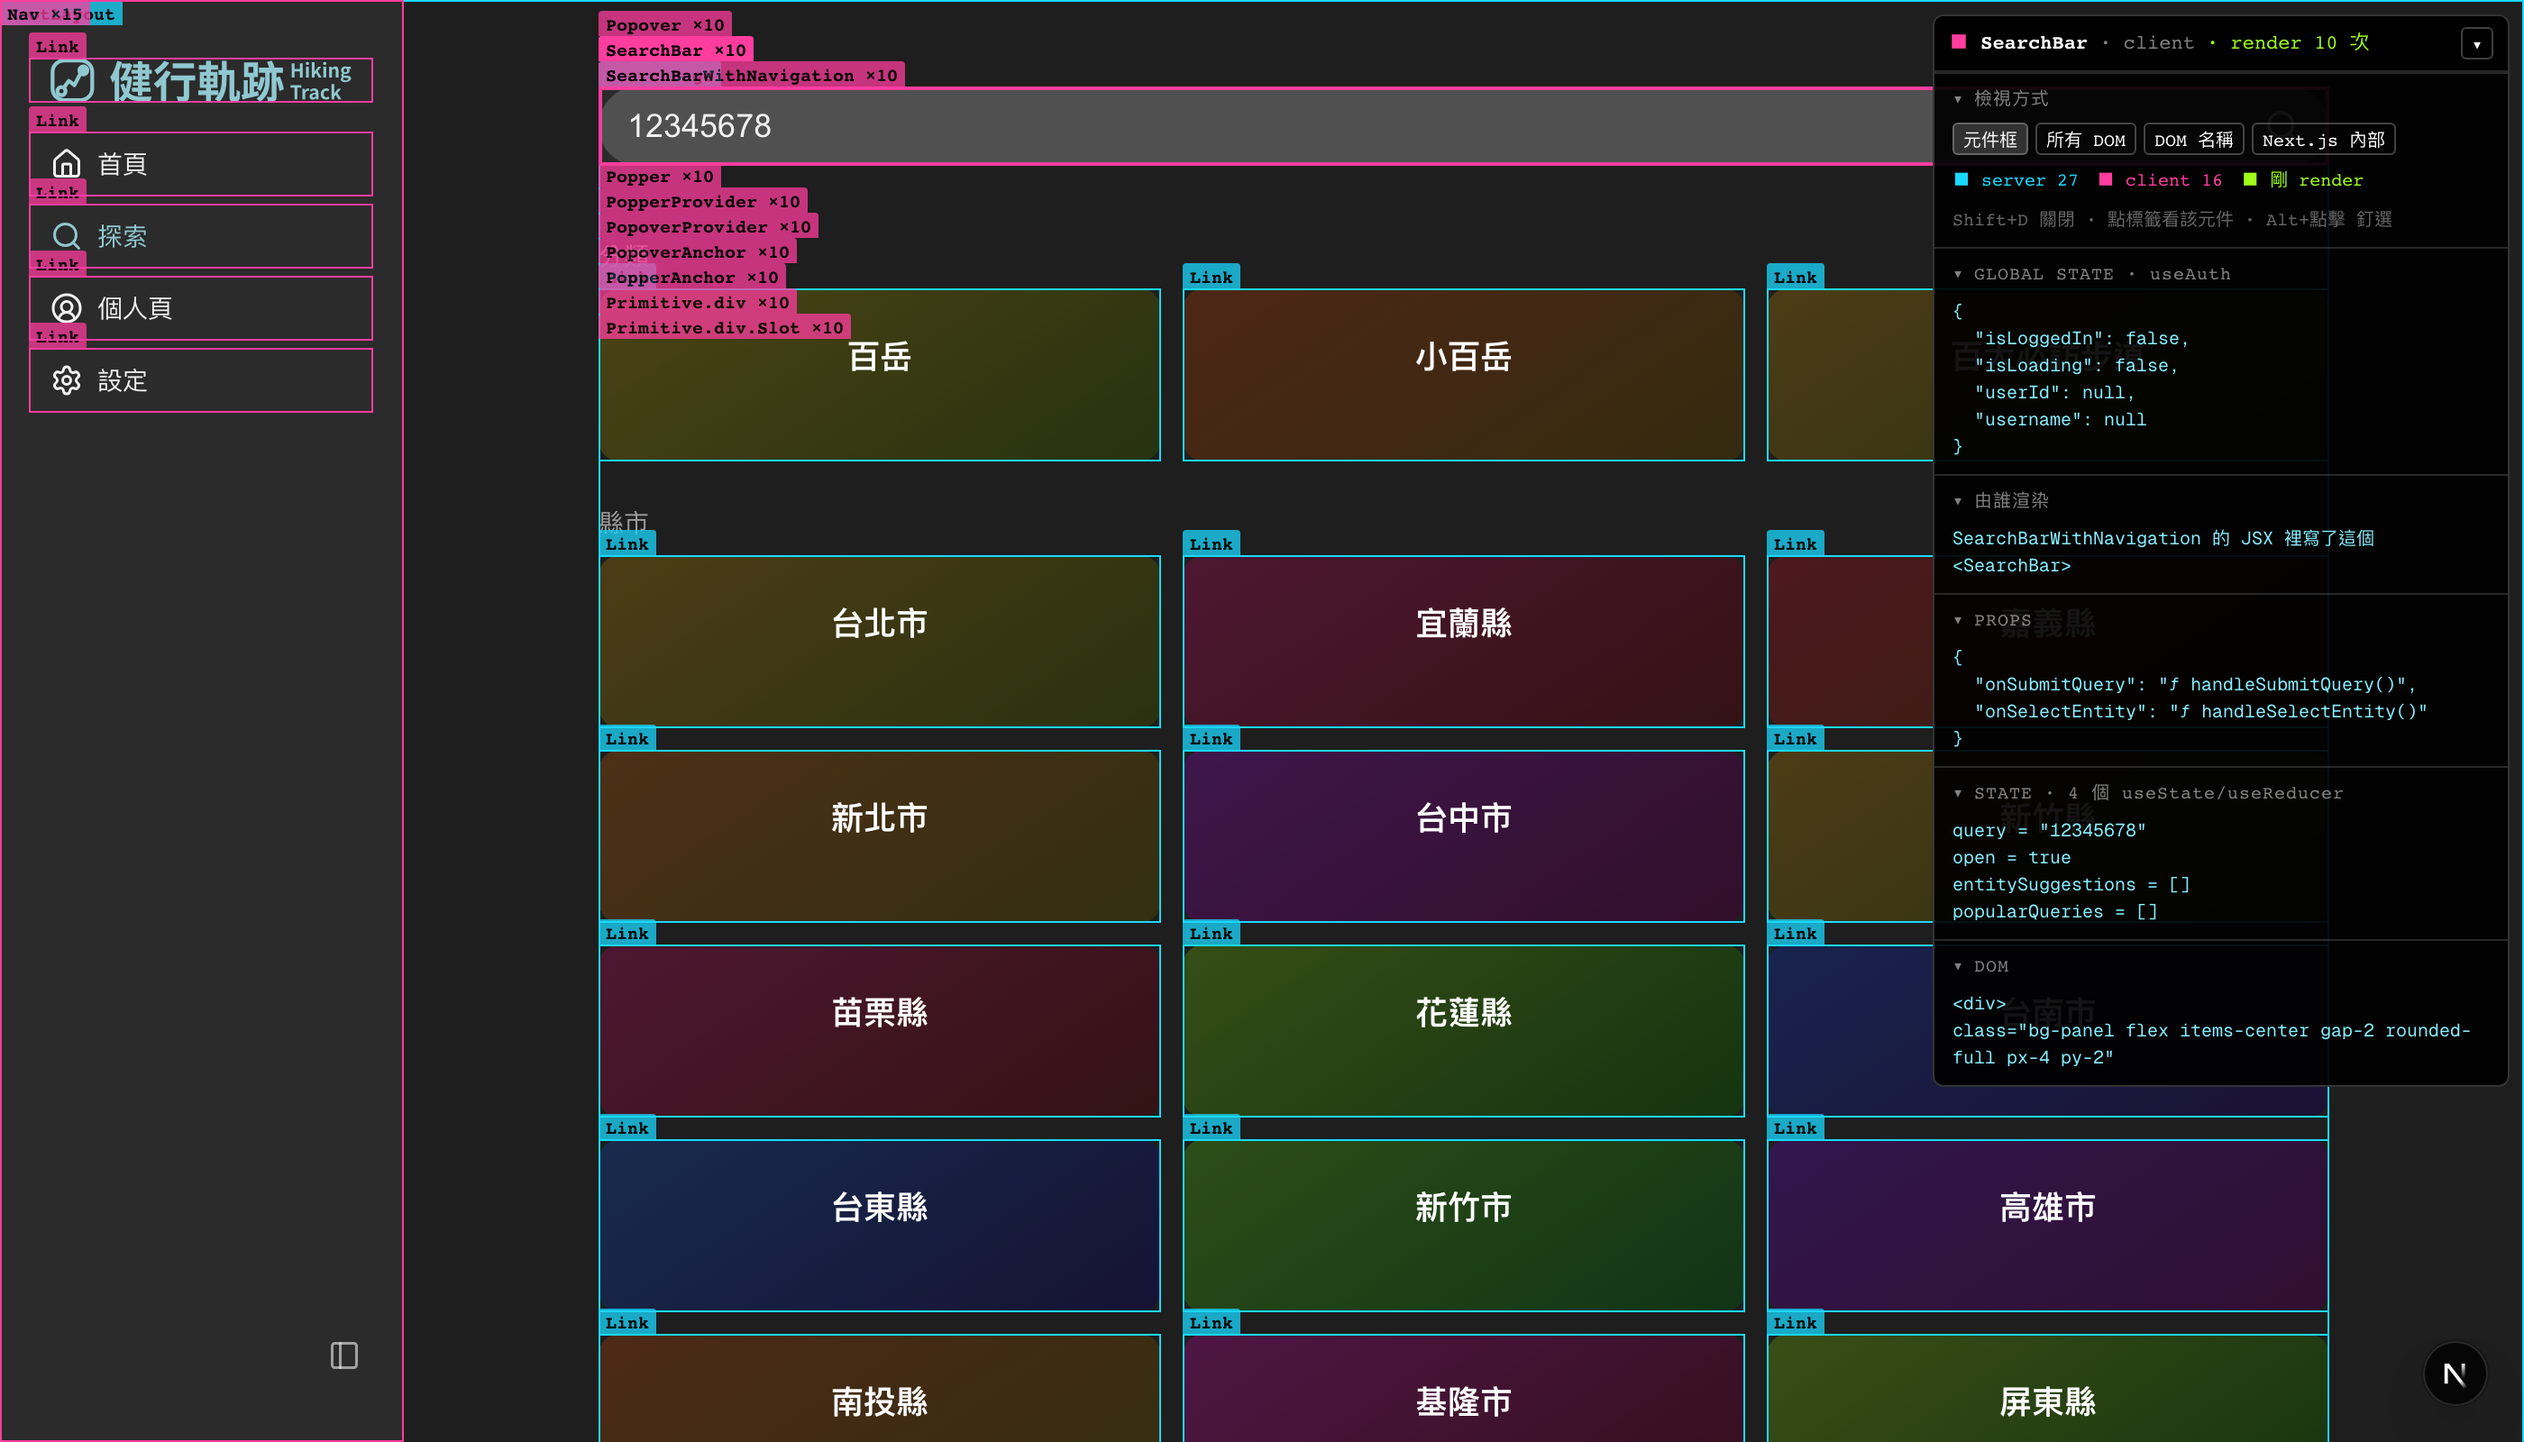
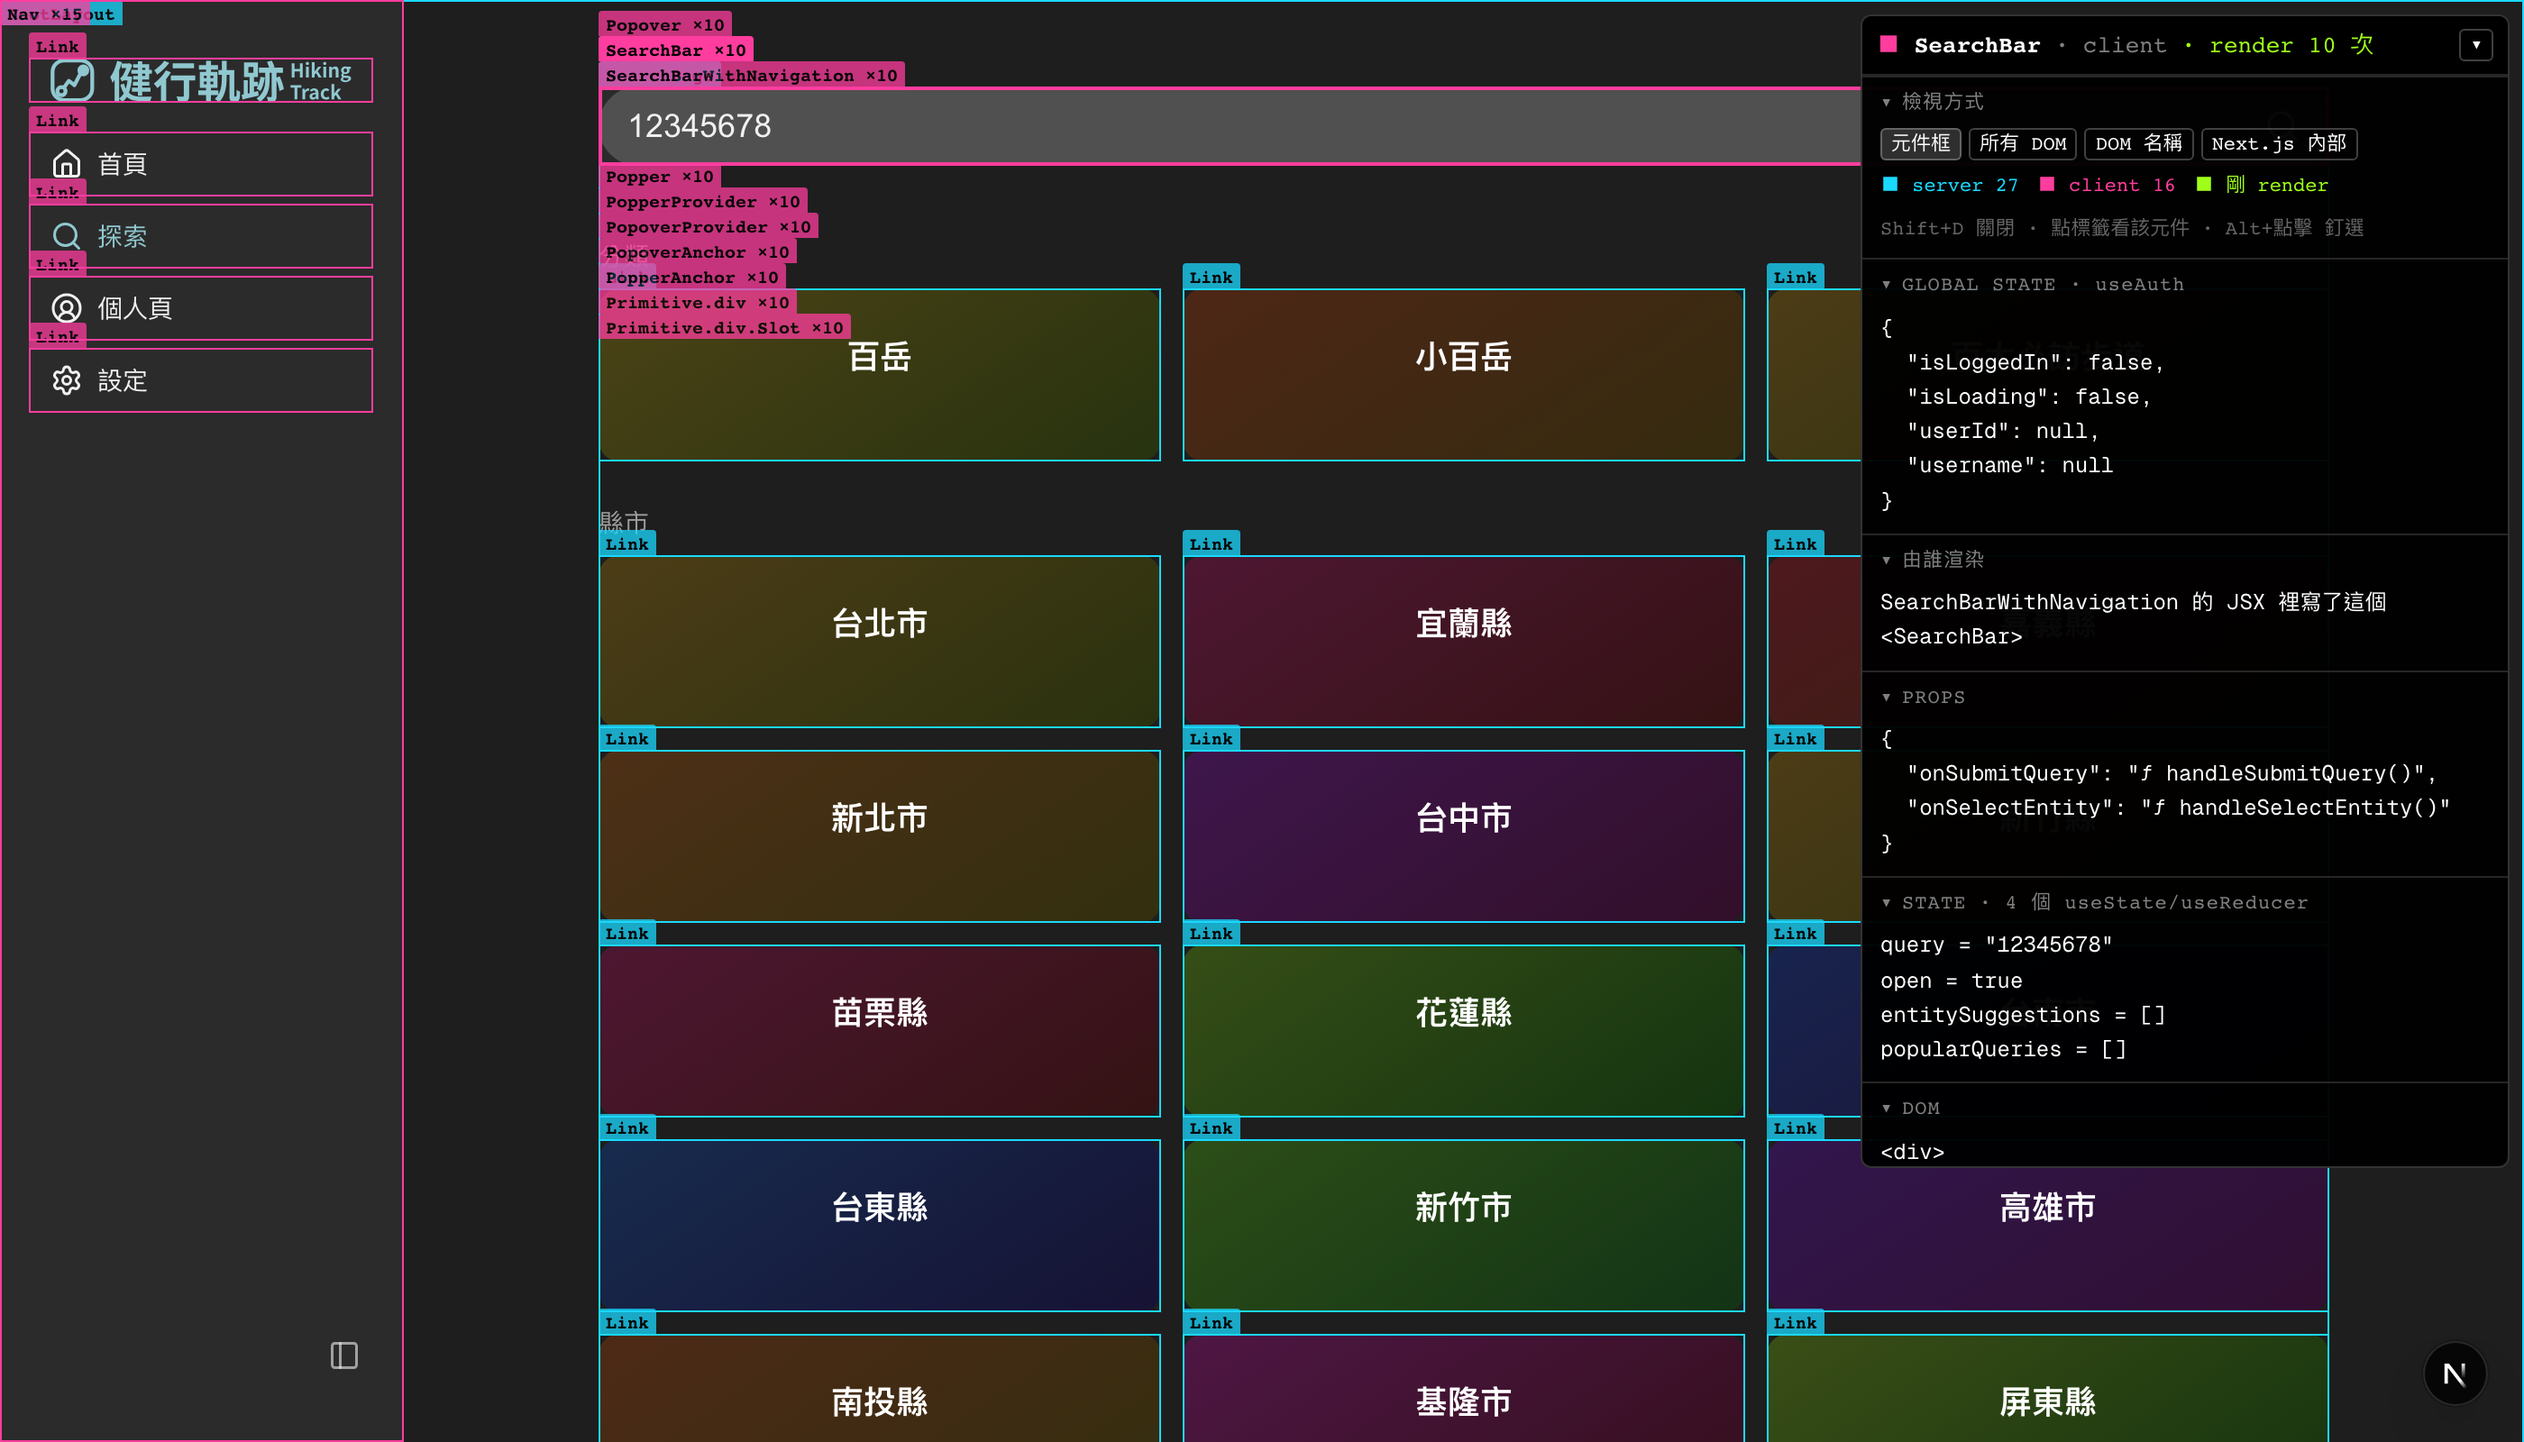
style: debug 面板放大字級、內文改白色
面板寬度 320 → 360，內文 10px 藍字改成 12px 白字，
背景不透明度提高，避免頁面文字透出來影響閱讀。

Changed region(s): [[0.7146, 0.0, 0.9943, 0.8125], [0.9011, 0.3438, 0.9321, 0.375]]

diff --git a/hiking_map_frontend_next/src/lib/debug/DebugPanel.tsx b/hiking_map_frontend_next/src/lib/debug/DebugPanel.tsx
@@ -46,7 +46,7 @@ function IconButton({ label, title, active, onClick }: { label: string; title: s
         background: active ? 'rgba(255,255,255,0.18)' : 'transparent',
         color: '#fff',
         borderRadius: '3px',
-        fontSize: '10px',
+        fontSize: '11px',
         fontFamily: 'monospace',
         lineHeight: '16px',
         padding: '0 5px',
@@ -75,7 +75,7 @@ function Section({ title, children }: { title: string; children: React.ReactNode
           border: 0,
           background: 'transparent',
           color: 'rgba(255,255,255,0.5)',
-          fontSize: '10px',
+          fontSize: '11px',
           fontFamily: 'monospace',
           letterSpacing: '0.05em',
           padding: '6px 10px',
@@ -92,7 +92,7 @@ function Section({ title, children }: { title: string; children: React.ReactNode
 }
 
 function Code({ children }: { children: string }) {
-  return <pre style={{ margin: 0, color: '#8ef', fontSize: '10px', lineHeight: 1.5, whiteSpace: 'pre-wrap', wordBreak: 'break-word' }}>{children}</pre>;
+  return <pre style={{ margin: 0, color: '#fff', fontSize: '12px', lineHeight: 1.6, whiteSpace: 'pre-wrap', wordBreak: 'break-word' }}>{children}</pre>;
 }
 
 // 以 Debug 開頭的 displayName 會被疊層過濾掉，避免 debug 工具照到自己
@@ -129,10 +129,10 @@ export default function DebugPanel({
         position: 'fixed',
         top: 8,
         right: 8,
-        width: 320,
+        width: 360,
         maxHeight: collapsed ? undefined : '80vh',
         overflow: collapsed ? 'hidden' : 'auto',
-        background: 'rgba(0,0,0,0.92)',
+        background: 'rgba(0,0,0,0.97)',
         border: '1px solid rgba(255,255,255,0.2)',
         borderRadius: '6px',
         fontFamily: 'monospace',
@@ -150,7 +150,7 @@ export default function DebugPanel({
           alignItems: 'center',
           gap: '6px',
           padding: '6px 8px',
-          fontSize: '11px',
+          fontSize: '13px',
           fontWeight: 700,
           background: 'rgba(0,0,0,0.96)',
           borderBottom: '1px solid rgba(255,255,255,0.15)',
@@ -181,13 +181,14 @@ export default function DebugPanel({
               <IconButton label="DOM 名稱" title="畫面內的 HTML 標籤加上名稱，例如 input[type=password]" active={showDomLabels} onClick={onToggleDomLabels} />
               <IconButton label="Next.js 內部" title="連 Next.js 與 React 自己的元件一起顯示" active={includeFramework} onClick={onToggleFramework} />
             </div>
-            <div style={{ display: 'flex', gap: '10px', fontSize: '10px', marginTop: '6px' }}>
+            <div style={{ display: 'flex', gap: '10px', fontSize: '11px', marginTop: '6px' }}>
               <span style={{ color: COLORS.server }}>■ server {serverCount}</span>
               <span style={{ color: COLORS.client }}>■ client {clientCount}</span>
+              {/* 沒開 DOM 模式時畫面上沒有黃色，圖例也就不用佔位 */}
               {(showDomLabels || showDomOutlines) && <span style={{ color: DOM_COLOR }}>■ dom{showDomLabels ? ` ${domCount}` : ''}</span>}
               <span style={{ color: RENDER_COLOR }}>■ 剛 render</span>
             </div>
-            <div style={{ fontSize: '10px', color: 'rgba(255,255,255,0.4)', marginTop: '6px', lineHeight: 1.6 }}>
+            <div style={{ fontSize: '11px', color: 'rgba(255,255,255,0.4)', marginTop: '6px', lineHeight: 1.6 }}>
               Shift+D 關閉 · 點標籤看該元件 · Alt+點擊 釘選
               {!trackerActive && <div style={{ color: 'hsl(20 100% 65%)' }}>commit hook 沒掛上，render 次數無法計算</div>}
             </div>
